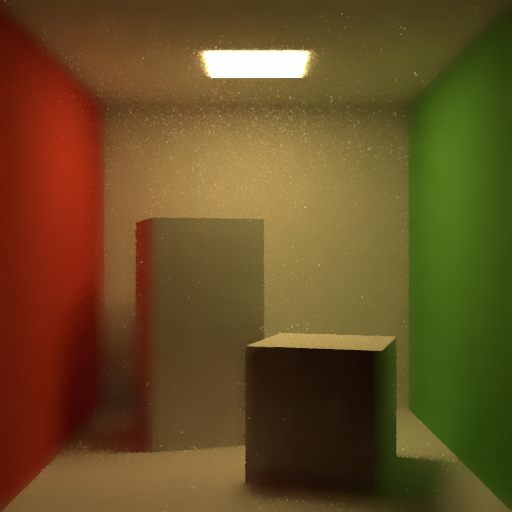
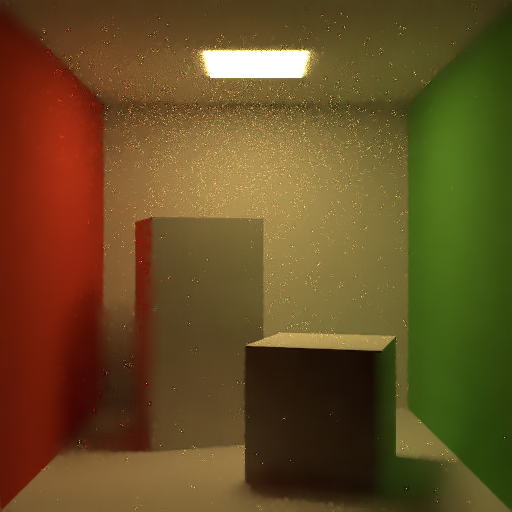
scrip

diff --git a/apps/nlm_denoiser/nlm_denoiser.cpp b/apps/nlm_denoiser/nlm_denoiser.cpp
@@ -15,56 +15,45 @@ namespace sio = yocto::sceneio;
 namespace shp = yocto::shape;
 namespace img  = yocto::image;
 
+//compute euclidean distance
+float distance_patches(img::image<vec4f> &img, vec2i& pcoords, vec2i& qcoords, int r){
 
-vec4f compute_neighborhood_mean(img::image<vec4f> &img, vec2i& pix_coords, int radius){
+    auto pi = pcoords.x;
+    auto pj = pcoords.y;
+    auto qi = qcoords.x;
+    auto qj = qcoords.y;
 
-    //params
-    auto i = pix_coords.x;
-    auto j = pix_coords.y;
-    auto w = img.size().x;
-    auto h = img.size().y;
-    auto start_horizontal = clamp(i - radius, 0, w - 1);
-    auto end_horizontal   = clamp(i + radius, 0, w - 1);
-    auto start_vertical   = clamp(j - radius, 0, h - 1);
-    auto end_vertical     = clamp(j + radius, 0, h - 1);
+    auto d = 0.0f;
 
-    //mean
-    auto mean = vec4f{};
-    auto count = 0;
-
-    for(auto k = start_vertical; k < end_vertical; k++){
-        for(auto l = start_horizontal; l < end_horizontal; l++){
-            auto& p = img[{l,k}];
-            mean += p * 255;
-            count++;
+    for(auto rj = -r; rj <= r; rj++){
+        for(auto ri = -r; ri <= r ; ri++){
+            if(!img.contains({qi + ri, qj + rj})) continue;
+            if(!img.contains({pi + ri, pj + rj})) continue;
+            auto p = img[{pi + ri, pj + rj}] * 255;
+            auto q = img[{qi + ri, qj + rj}] * 255;
+            
+            d += distance_squared({p.x, p.y, p.z},{q.x, q.y, q.z});
         }
     }
-
-    //security check
-    if(count > 0) mean/=count;
+    d/= (2.0f * pow(r + 1.0f, 2));
 
     //done
-    return mean;
+    return d;
 }
 
 //gaussian weighting function
-float compute_weight(img::image<vec4f>& img,  vec2i q_coords, int radius, vec4f bp,
-            float h_filter, float sigma){
-    
-    //compute euclidean distance
-    float distance = pow(length(compute_neighborhood_mean(img, q_coords, radius) - bp), 2);
+float compute_weight(float distance, float h_filter, float sigma){
     
     //apply gaussian weighting
     auto exponent = -max(distance - 2.0f * pow(sigma, 2), 0.0f) / pow(h_filter, 2);
-
     float weight = expf(exponent);
 
     //done
     return weight;
 }
 
-//implementation of pixelwise non-local means denoiser
-void pixelwise_NLM(img::image<vec4f>& img, img::image<vec4f>& output, int radius, 
+//implementation of non-local means denoiser
+void nlmeans(img::image<vec4f>& img, img::image<vec4f>& output, int radius, 
             int big_radius, float h_filter, float sigma){
     
     //image size
@@ -99,18 +88,16 @@ void pixelwise_NLM(img::image<vec4f>& img, img::image<vec4f>& output, int radius
             //color
             auto color = vec4f{0,0,0, 1};
 
-            //neighborhood's mean B(p,r)
-            auto bp = compute_neighborhood_mean(img, vec2i(i,j), radius);
-
-            //iterate the neighborhood
+            //iterate the search window
             for(auto k = start_vertical; k < end_vertical; k++){
                 for(auto l = start_horizontal; l < end_horizontal; l++){
 
                     //if we are in the same pixel -> skip
-                    if(k == j && l == i) continue;
+                    //if(k == j && l == i) continue;
                     //get the pixel
-                    auto& q = img[{l,k}];
-                    auto weight = compute_weight(img, vec2i{l,k}, radius, bp, h_filter, sigma);
+                    auto&q = img[{l, k}];
+                    auto d = distance_patches(img, vec2i{i, j}, vec2i{l, k}, radius);
+                    auto weight = compute_weight(d, h_filter, sigma);
                     c += weight;
                     color += q * weight;
                 }
@@ -118,6 +105,7 @@ void pixelwise_NLM(img::image<vec4f>& img, img::image<vec4f>& output, int radius
 
             //security check
             if(c > 0) color /= c;
+            color.w = 1;
 
             //update output image
             output[{i,j}] = color;
@@ -169,7 +157,7 @@ int main(int argc, const char* argv[]) {
     std::cout << "Processing..." << std::endl;
 
     //apply the algorithm
-    pixelwise_NLM(img, output, patch_r, big_r, h_filter, sigma);
+    nlmeans(img, output, patch_r, big_r, h_filter, sigma);
 
     //saving image
     std::cout << "Saving " + output_path << std::endl;
